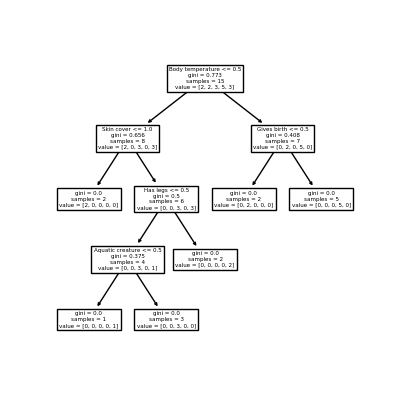
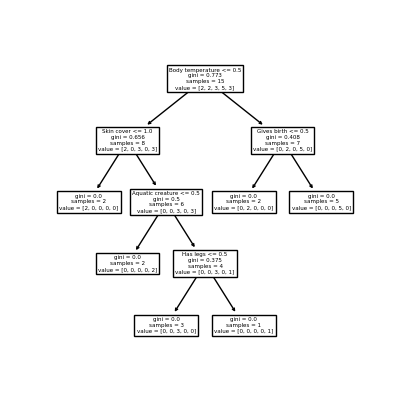
Full regression_part_b with statistical analysis

diff --git a/scripts/regression_cv.py b/scripts/regression_cv.py
@@ -3,21 +3,27 @@ from numpy import argmin
 from toolbox_02450 import rlr_validate, train_neural_net
 from regression_importdata import *
 from sklearn import model_selection
+import scipy.stats as st
 
-K1 = 2
-K2 = 2
+# Parameters
+K1 = 10  # Outer fold
+K2 = 10  # Inner fold
+lambdas = np.power(10., np.arange(-3, 2, 0.1))  # Regularization factors in RLR
+hs = [i for i in range(1, 10)]  # Number of hidden units in ANN
+NR = 1  # Number of iterations when training ANN
+max_iter = 1000  # Maximum number of iterations when training ANN model.
 
-baseline = y.mean()
-
+# Old code - perhaps delete later
 # models = [lm.LinearRegression(fit_intercept=True), lm.LinearRegression(fit_intercept=False)] # Models
-
 # models_control_parameters = [range()]
 
-
+# Functions that split the data for cross-validation
 CVOuter = model_selection.KFold(n_splits=K1, shuffle=True)
 CVInner = model_selection.KFold(n_splits=K2, shuffle=True)
-i = 0
 
+i = 0  # Iterate of the outer loop
+
+# Functions for computing validation error. Is not used so perhaps delete.
 def validationError(X, y, model):
     distance_function = lambda yt, xt: (yt-model.predict(xt))**2
     tmp_sum = 0
@@ -25,9 +31,7 @@ def validationError(X, y, model):
         tmp_sum += distance_function(y[i],X[i,:])
     return tmp_sum/len(y)
 
-lambdas = np.power(10., np.arange(-3, 2, 0.1))
-hs = [i for i in range(1, 3)]
-
+# ANN model
 def ann_model(n_hidden_units):
     return lambda: torch.nn.Sequential(
         torch.nn.Linear(M, n_hidden_units),  # M features to H hidden units
@@ -36,50 +40,61 @@ def ann_model(n_hidden_units):
         torch.nn.Linear(n_hidden_units, 1)  # H hidden units to 1 output neuron
         # torch.nn.Sigmoid()  # final tranfer function
     )
-
-
 loss_fn = torch.nn.MSELoss()
-max_iter = 1000
 
-
+# Initialization of some variables used later
 Eval = np.zeros((len(hs), K2))
 EgenS = np.zeros(len(hs))
+sizeDval = np.zeros(K2)
+Egen = 0
+ANN_loss = []
+RLR_loss = []
+BASE_loss = []
 # Etest = np.zeros(K1)
 
-# Change data to have intercept attribute
+# Change data to have intercept attribute for the RLR model
 X_intercept = np.concatenate((np.ones((X.shape[0], 1)), X), 1)
 
-sizeDval = np.zeros(K2)
-
-Egen = 0
+# Header of the table that we want to produce.
 print("{}\t{}\t{}\t{}\t{}\t{}".format('fold i','h*','error','lambda*','error','Baseline error'))
+
+# Outer loop
 for par_index, test_index in CVOuter.split(X):
-    j = 0
-    X_test, y_test = X[test_index, :], y[test_index]
+    j = 0  # Iterate for the inner loop.
+
+    # Split data into test data and parameter data.
+    X_test, y_test = torch.Tensor(X[test_index, :]), torch.Tensor(y[test_index])
     X_par, y_par = X[par_index, :], y[par_index]
-    # ANN
+
+    # This inner loop cross-validates the ANN model (the second level cross-validation)
     for train_index, val_index in CVInner.split(X[par_index, :]):
+        # Split parameter data into training data and validation data
         sizeDval[j] = sum(val_index)
         X_train, y_train = torch.Tensor(X_par[train_index, :]), torch.Tensor(y_par[train_index])
         X_val, y_val = torch.Tensor(X_par[val_index, :]), torch.Tensor(y_par[val_index])
 
+        # Loop over the complexity parameter for the ANN model (number of hidden units)
         for s, h in enumerate(hs):
             # Train model
             net, final_loss, learning_curve = train_neural_net(ann_model(h),
                                                                loss_fn,
                                                                X=X_train,
                                                                y=y_train.unsqueeze(1),
-                                                               n_replicates=1,
+                                                               n_replicates=NR,
                                                                max_iter=max_iter)
             # y_pred = net(X_val).float()   # activation of final note, i.e. prediction of network
             # y_val = y_val.float()
+
+            # Validate the model on the validation data and store results
             y_val_est = net(X_val).squeeze()
             se = (y_val_est.float() - y_val.float()) ** 2  # squared error
             mse = (sum(se).type(torch.float) / len(y_val)).data.numpy()  # mean
             Eval[s, j] = mse
 
         j += 1
-    # Select ANN* - For each s compute generalization error
+    # End of inner loop
+
+    # Select ANN* - For each complexity parameter: compute generalization error
     for s, _ in enumerate(hs):
         runningSum = 0
         for j in range(K2):
@@ -87,23 +102,32 @@ for par_index, test_index in CVOuter.split(X):
         EgenS[s] = runningSum
     # Select optimal model M*
     index_opt = argmin(EgenS)
-    h_opt = hs[index_opt]
-
-    # Baseline
-    baseline = y_par.mean()
-    Error_test_baseline = np.square(y_test - baseline).sum(axis=0)/y_test.shape[0]
+    h_opt = hs[index_opt]  # The optimal number of hidden units in this outer fold.
 
     # RLR - Here the optimal value of lambda is found.
+    # This is essentially another inner loop, but the function rlr_validate does this.
     opt_val_err, opt_lambda, mean_w_vs_lambda, train_err_vs_lambda, test_err_vs_lambda = rlr_validate(X_intercept[par_index, :], y[par_index], lambdas, K2)
+
+    # Choose the optimal RLR model:
     index_lambda_opt = np.where(lambdas == opt_lambda)
-    rlr_opt = mean_w_vs_lambda[:, index_lambda_opt]
+    rlr_opt = mean_w_vs_lambda[:, index_lambda_opt]  # The optimal coefficients for the RLR model.
+
+    # With all three models selected, we then train them on the parameter data and test on the test data.
+
+    # Baseline model (computing the average and use this as prediction)
+    baseline = y_par.mean()
+    # Compute performance of the baseline model
+    baseline_loss = np.square(y_test - baseline)
+    Error_test_baseline = np.square(y_test - baseline).sum(axis=0)/y_test.shape[0]
 
     # Train ANN on D_Par
-    net, _, _ = train_neural_net(ann_model(h_opt), loss_fn, X=torch.Tensor(X_par), y=torch.Tensor(y_par).unsqueeze(1), n_replicates=1, max_iter=max_iter)
-
-    y_val_est = net(X_val).squeeze()
-    se = (y_val_est.float() - y_val.float()) ** 2  # squared error
-    mse = (sum(se).type(torch.float) / len(y_val)).data.numpy()  # mean
+    net, _, _ = train_neural_net(ann_model(h_opt), loss_fn, X=torch.Tensor(X_par),
+                                 y=torch.Tensor(y_par).unsqueeze(1), n_replicates=NR,
+                                 max_iter=max_iter)
+    # Compute generalization error of ANN
+    y_val_est = net(X_test).squeeze()
+    se = (y_val_est.float() - y_test.float()) ** 2  # squared error
+    mse = (sum(se).type(torch.float) / len(y_test)).data.numpy()  # mean
     Error_test_ann = mse
 
     # Train RLR on D_par:
@@ -118,19 +142,53 @@ for par_index, test_index in CVOuter.split(X):
     XtX = rlr_X_par.T @ rlr_X_par
     # Train the RLR model on X[par_index, :]
     lambdaI = opt_lambda * np.eye(M+1)
-    lambdaI[0, 0] = 0  # Do no regularize the bias term
+    lambdaI[0, 0] = 0  # Do not regularize the bias term
     w_rlr = np.linalg.solve(XtX+lambdaI, Xty).squeeze()
     # Make predictions on test data
     rlr_y_est = rlr_X_test @ w_rlr
     # Compute error
+    rlr_loss = np.square(y_test - rlr_y_est)
     Error_test_rlr = np.square(y_test - rlr_y_est).sum(axis=0)/y_test.shape[0]
 
+    # Store all losses such that we can do statistics
+    ANN_loss.append(se)
+    RLR_loss.append(rlr_loss)
+    BASE_loss.append(baseline_loss)
 
     # Estimate generalization error on the fly
     # Egen += (sum(test_index)/N) * Etest_i
-    print("{}\t{}\t{}\t{}\t{}\t{}".format(i, h_opt, Error_test_ann, opt_lambda, Error_test_rlr, Error_test_baseline))
-    i += 1
 
+    # Print statement to make a table (formatted just to copy into LaTeX)
+    print("{:d} & {:d} & {:.5f} & {:f} & {:.5f} & {:.5f} \\\ \hline".format(i+1, h_opt, Error_test_ann, opt_lambda, Error_test_rlr, Error_test_baseline))
+    i += 1
+# End of outer loop.
+
+# Losses of the three models. Make into numpy arrays.
+ANN_loss = torch.cat(ANN_loss).detach().numpy()
+RLR_loss = torch.cat(RLR_loss).detach().numpy()
+BASE_loss = torch.cat(BASE_loss).detach().numpy()
+
+# Do statistics
+alpha = 0.05
+
+# Compare model A and B
+CIAB = st.t.interval(1-alpha, len(ANN_loss)-1, loc=np.mean(ANN_loss - RLR_loss), scale=st.sem(ANN_loss - RLR_loss))  # Confidence interval
+pAB = 2*st.t.cdf(-np.abs(np.mean(ANN_loss - RLR_loss))/st.sem(ANN_loss - RLR_loss), df=len(ANN_loss)-1)  # p-value
+
+# Compare model A and C
+CIAC = st.t.interval(1-alpha, len(ANN_loss)-1, loc=np.mean(ANN_loss - BASE_loss), scale=st.sem(ANN_loss - BASE_loss))  # Confidence interval
+pAC = 2*st.t.cdf(-np.abs(np.mean(ANN_loss - BASE_loss))/st.sem(ANN_loss - BASE_loss), df=len(ANN_loss)-1)  # p-value
+
+# Compare model B and C
+CIBC = st.t.interval(1-alpha, len(RLR_loss)-1, loc=np.mean(RLR_loss - BASE_loss), scale=st.sem(RLR_loss - BASE_loss))  # Confidence interval
+pBC = 2*st.t.cdf(-np.abs(np.mean(RLR_loss - BASE_loss))/st.sem(RLR_loss - BASE_loss), df=len(RLR_loss)-1)  # p-value
+
+print("The A-B confidence interval:", CIAB)
+print("The A-B p-value:", pAB)
+print("The A-C confidence interval:", CIAC)
+print("The A-C p-value:", pAC)
+print("The B-C confidence interval:", CIBC)
+print("The B-C p-value:", pBC)
 
 # y_hat = fitted_model_opt.predict(X)
 #

diff --git a/02450Toolbox_Python/Scripts/ex6_1_1.py b/02450Toolbox_Python/Scripts/ex6_1_1.py
@@ -22,16 +22,16 @@ test_proportion = 0.5
 X_train, X_test, y_train, y_test = model_selection.train_test_split(X,y,test_size=test_proportion)
 
 # Initialize variables
-Error_train = np.empty((len(tc),1))
-Error_test = np.empty((len(tc),1))
+Error_train = np.empty((len(tc), 1))
+Error_test = np.empty((len(tc), 1))
 
 for i, t in enumerate(tc):
     # Fit decision tree classifier, Gini split criterion, different pruning levels
     dtc = tree.DecisionTreeClassifier(criterion='gini', max_depth=t)
-    dtc = dtc.fit(X_train,y_train)
+    dtc = dtc.fit(X_train, y_train)
 
     # Evaluate classifier's misclassification rate over train/test data
-    y_est_test = np.asarray(dtc.predict(X_test),dtype=int)
+    y_est_test = np.asarray(dtc.predict(X_test), dtype=int)
     y_est_train = np.asarray(dtc.predict(X_train), dtype=int)
     misclass_rate_test = sum(y_est_test != y_test) / float(len(y_est_test))
     misclass_rate_train = sum(y_est_train != y_train) / float(len(y_est_train))
@@ -42,7 +42,7 @@ plot(tc, Error_train*100)
 plot(tc, Error_test*100)
 xlabel('Model complexity (max tree depth)')
 ylabel('Error (%)')
-legend(['Error_train','Error_test'])
+legend(['Error_train', 'Error_test'])
     
 show()    
 

diff --git a/02450Toolbox_Python/Scripts/ex5_2_4.py b/02450Toolbox_Python/Scripts/ex5_2_4.py
@@ -7,17 +7,18 @@ from ex5_1_5 import *
 
 # Split dataset into features and target vector
 alcohol_idx = attributeNames.index('Alcohol')
-y = X[:,alcohol_idx]
+y = X[:, alcohol_idx]
 
-X_cols = list(range(0,alcohol_idx)) + list(range(alcohol_idx+1,len(attributeNames)))
-X = X[:,X_cols]
+X_cols = list(range(0, alcohol_idx)) + list(range(alcohol_idx+1, len(attributeNames)))
+X = X[:, X_cols]
 
 # Fit ordinary least squares regression model
 model = lm.LinearRegression()
-model.fit(X,y)
+model.fit(X, y)
 
 # Predict alcohol content
 y_est = model.predict(X)
+print(model.coef_)
 residual = y_est-y
 
 # Display scatter plot

diff --git a/02450Toolbox_Python/Scripts/ex5_1_2.py b/02450Toolbox_Python/Scripts/ex5_1_2.py
@@ -19,9 +19,9 @@ dtc = dtc.fit(X, y)
 # to get a readable plot. Hint: Try to maximize the figure after it displays.
 fname='tree_ex512_' + criterion + '.png'
 
-fig = plt.figure(figsize=(4,4),dpi=100) 
-_ = tree.plot_tree(dtc, filled=False,feature_names=attributeNames)
-plt.savefig(fname)
+fig = plt.figure(figsize=(4, 4), dpi=100)
+_ = tree.plot_tree(dtc, filled=False, feature_names=attributeNames)
+#plt.savefig(fname)
 plt.show()
 
 print('Ran Exercise 5.1.2')

diff --git a/02450Toolbox_Python/Scripts/ex5_2_6.py b/02450Toolbox_Python/Scripts/ex5_2_6.py
@@ -26,7 +26,7 @@ misclass_rate = np.sum(y_est != y) / float(len(y_est))
 print('\nProbability of given sample being a white wine: {0:.4f}'.format(x_class))
 print('\nOverall misclassification rate: {0:.3f}'.format(misclass_rate))
 
-f = figure();
+f = figure()
 class0_ids = np.nonzero(y==0)[0].tolist()
 plot(class0_ids, y_est_white_prob[class0_ids], '.y')
 class1_ids = np.nonzero(y==1)[0].tolist()

diff --git a/02450Toolbox_Python/Scripts/ex5_1_3.py b/02450Toolbox_Python/Scripts/ex5_1_3.py
@@ -13,7 +13,7 @@ from matplotlib.image import imread
 from ex5_1_1 import *
 
 # Fit regression tree classifier, Gini split criterion, no pruning
-criterion='gini'
+criterion = 'entropy'
 # dtc = tree.DecisionTreeClassifier(criterion=criterion, min_samples_split=2)
 dtc = tree.DecisionTreeClassifier(criterion=criterion, min_samples_split=1.0/N)
 dtc = dtc.fit(X,y)

diff --git a/scripts/summary.py b/scripts/summary.py
@@ -36,6 +36,12 @@ for i,att in enumerate(attributeNames):
 show()
 
 
+figure()
+hist(raw_data[:,-1], bins=[0.5 + i for i in range(8)])
+title("Histogram of classes")
+xlabel("Classes")
+ylabel("Occurences")
+
 # Normalize data
 SX = X - np.ones((N, 1)) * X.mean(0)
 SX = SX * (1 / np.std(SX, 0))
